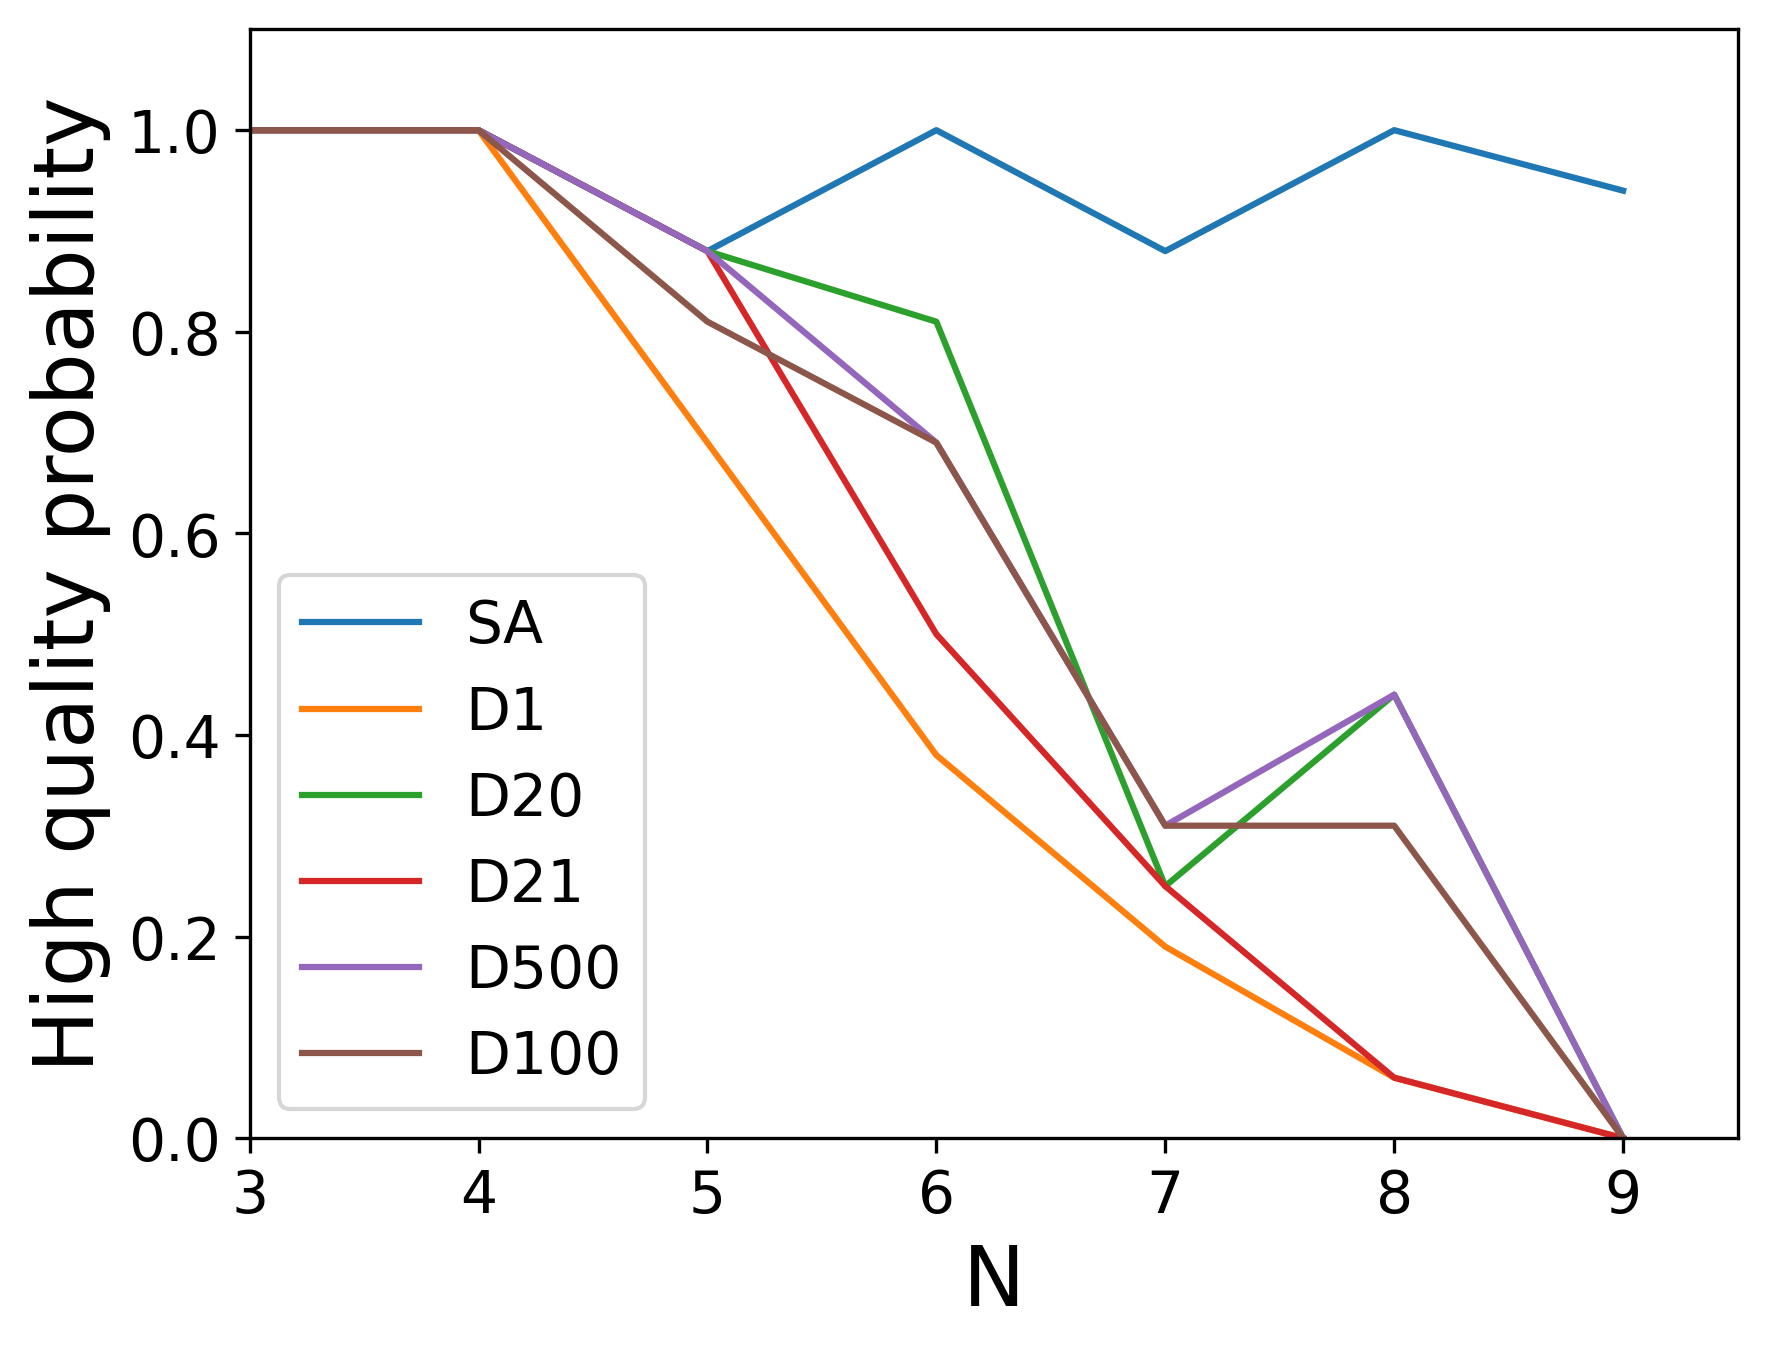
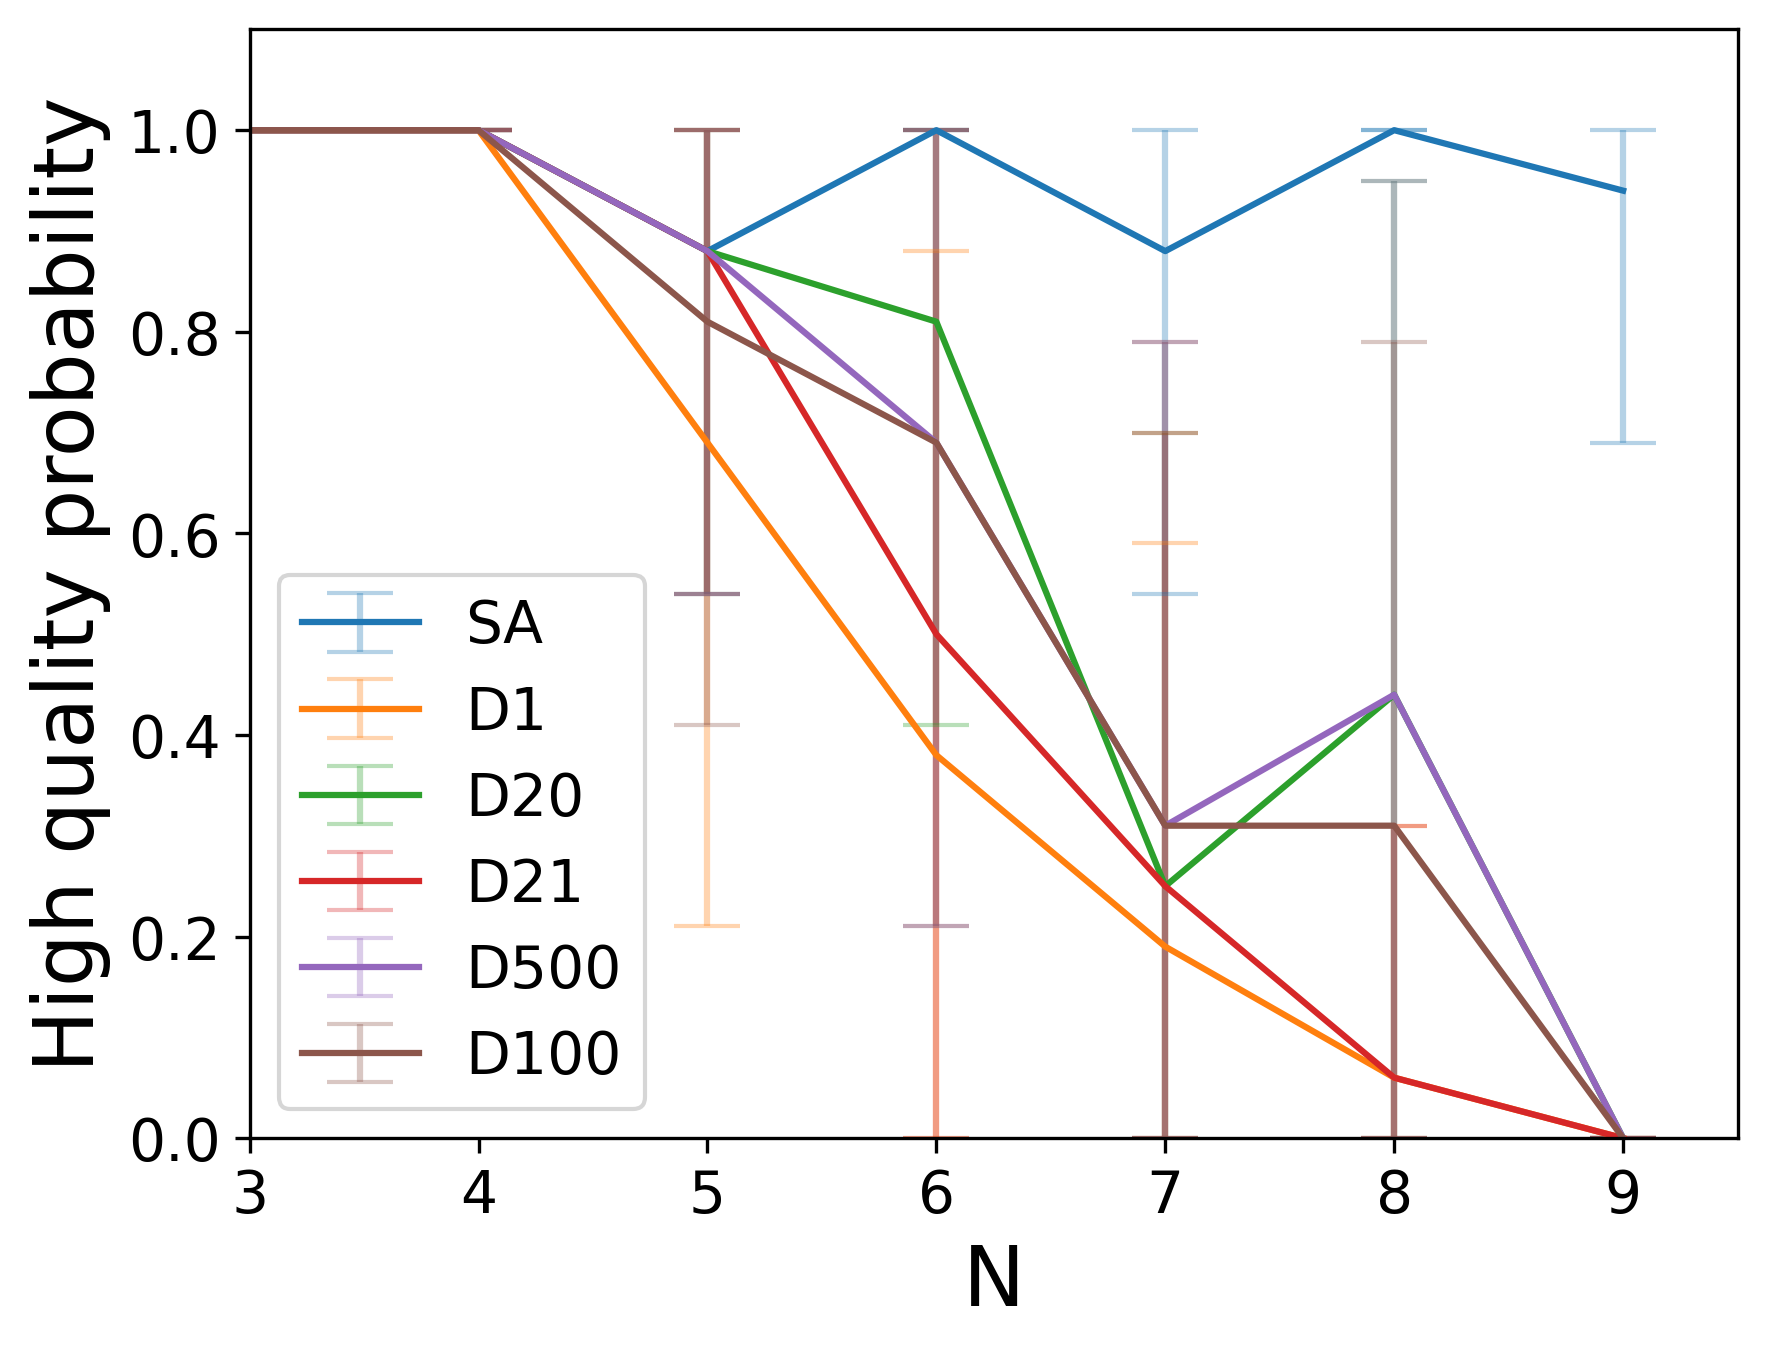
modified plots

diff --git a/relative_distance_new.py b/relative_distance_new.py
@@ -99,8 +99,8 @@ for i, df in enumerate(NEW_DF):
     NEW_DF[i]['normalized_cost'] = NEW_DF[i].apply(lambda row: normalize_cost(row.g1, row.g2, row.v, row.best_sample), axis=1)
     NEW_DF[i]['relative_distance'] = NEW_DF[i].apply(lambda row: rel_diff(row.exact_distance, row.normalized_cost), axis=1)
 
-for i, df in enumerate(OLD_DF+NEW_DF):
-    print(f"Length of {i}th DF: {len(df)}")
+#for i, df in enumerate(OLD_DF+NEW_DF):
+#    print(f"Length of {i}th DF: {len(df)}")
 
 relative_distance_df = pd.DataFrame()
 relative_distance_df['v'] = experiments_new_df['vertices']
@@ -112,31 +112,39 @@ NAMES_DF = ['SA',
             'leap', 'vqe p1', 'vqe p3', 'qaoa p1', 'qaoa p3']
 
 for i, (df, name) in enumerate(zip(ORDERED_DF, NAMES_DF)):
-    print('processing ', name)
+    # print('processing ', name)
     relative_distance_df[name] = df['relative_distance']
 
 relative_distance_df = relative_distance_df.fillna(1.0)
 
-print("\n\nRELATIVE DISTANCE")
-print(relative_distance_df.groupby(['v']).mean().round(decimals=2))
+#print("\n\nRELATIVE DISTANCE")
+#print(relative_distance_df.groupby(['v']).mean().round(decimals=2))
 
-print("\n\nSUCCESS PROBABILITY")
+#print("\n\nSUCCESS PROBABILITY")
 success_probability = (relative_distance_df < 0.001).astype(int)
 success_probability['v'] = relative_distance_df['v']
-print(success_probability.groupby(['v']).mean().round(decimals=2))
+#print(success_probability.groupby(['v']).mean().round(decimals=2))
 
-print("\n\nHIGH QUALITY PROBABILITY")
+#print("\n\nHIGH QUALITY PROBABILITY")
 hq_probability = (relative_distance_df <= 0.20).astype(int)
 hq_probability['v'] = relative_distance_df['v']
-print(hq_probability.groupby(['v']).mean().round(decimals=2))
+#print(hq_probability.groupby(['v']).mean().round(decimals=2))
 
 
 # ===========================================
 
-def create_plot(x, df, columns, labels, xlbl, ylbl, xlim=9.5):
-    plt.figure()
+def create_plot(x, df_mean, df_std, columns, labels, xlbl, ylbl, xlim=9.5):
+    fig = plt.figure()
     for i, (col, lbl) in enumerate(zip(columns, labels)):
-        plt.plot(x, df[col][:len(x)], label=lbl)
+        this_mean = df_mean[col][:len(x)]
+        this_std = df_std[col][:len(x)]
+        this_lower_error = [min(this_std.iloc[i], this_mean.iloc[i]) for i in range(len(this_mean))]
+        this_upper_error = [min(this_std.iloc[i], 1-this_mean.iloc[i]) for i in range(len(this_mean))]
+        this_error = [this_lower_error, this_upper_error]
+        markers, caps, bars = plt.errorbar(x, df_mean[col][:len(x)], yerr=this_error, label=lbl, capsize=8)
+        [bar.set_alpha(0.33) for bar in bars]
+        [cap.set_alpha(0.33) for cap in caps]
+
     plt.xlabel(xlbl, fontsize=20)
     plt.ylabel(ylbl, fontsize=20)
     plt.legend(fontsize=14)
@@ -144,60 +152,79 @@ def create_plot(x, df, columns, labels, xlbl, ylbl, xlim=9.5):
     plt.yticks(fontsize=14)
     plt.xlim((3, xlim))
     plt.ylim((0, 1.1))
+    return fig
 
 x = range(3, 10)
-rdg = relative_distance_df.groupby(['v']).mean().round(decimals=2)
-spg = success_probability.groupby(['v']).mean().round(decimals=2)
-hpg = hq_probability.groupby(['v']).mean().round(decimals=2)
+rdg_mean = relative_distance_df.groupby(['v']).mean().round(decimals=2)
+spg_mean = success_probability.groupby(['v']).mean().round(decimals=2)
+hpg_mean = hq_probability.groupby(['v']).mean().round(decimals=2)
+rdg_std = relative_distance_df.groupby(['v']).std().round(decimals=2)
+spg_std = success_probability.groupby(['v']).std().round(decimals=2)
+hpg_std = hq_probability.groupby(['v']).std().round(decimals=2)
+
+# Turn off interactive mode
+plt.ioff()
 
 # DWAVE plots configurations
-create_plot(x, rdg, ['SA', '2000 1us', '2000 20us', '2000 dc', '2000 lt', '2000 pm'],
+fig = create_plot(x, rdg_mean, rdg_std, ['SA', '2000 1us', '2000 20us', '2000 dc', '2000 lt', '2000 pm'],
             ['SA', 'D1', 'D20', 'D21', 'D500', 'D100'], "N", "Average relative difference")
 plt.savefig("plot_performances_new/2000_configurations_reldiff.png", dpi=300, bbox_inches='tight')
-create_plot(x, rdg, ['SA', 'adv 1us', 'adv 20us', 'adv dc', 'adv lt', 'adv pm'],
+plt.close(fig)
+fig = create_plot(x, rdg_mean, rdg_std, ['SA', 'adv 1us', 'adv 20us', 'adv dc', 'adv lt', 'adv pm'],
             ['SA', 'D1', 'D20', 'D21', 'D500', 'D100'], "N", "Average relative difference")
 plt.savefig("plot_performances_new/adv_configurations_reldiff.png", dpi=300, bbox_inches='tight')
+plt.close(fig)
 
-create_plot(x, spg, ['SA', '2000 1us', '2000 20us', '2000 dc', '2000 lt', '2000 pm'],
+fig = create_plot(x, spg_mean, spg_std, ['SA', '2000 1us', '2000 20us', '2000 dc', '2000 lt', '2000 pm'],
             ['SA', 'D1', 'D20', 'D21', 'D500', 'D100'], "N", "Success probability")
 plt.savefig("plot_performances_new/2000_configurations_sp.png", dpi=300, bbox_inches='tight')
-create_plot(x, spg, ['SA', 'adv 1us', 'adv 20us', 'adv dc', 'adv lt', 'adv pm'],
+plt.close(fig)
+fig = create_plot(x, spg_mean, spg_std, ['SA', 'adv 1us', 'adv 20us', 'adv dc', 'adv lt', 'adv pm'],
             ['SA', 'D1', 'D20', 'D21', 'D500', 'D100'], "N", "Success probability")
 plt.savefig("plot_performances_new/adv_configurations_sp.png", dpi=300, bbox_inches='tight')
+plt.close(fig)
 
-create_plot(x, hpg, ['SA', '2000 1us', '2000 20us', '2000 dc', '2000 lt', '2000 pm'],
+fig = create_plot(x, hpg_mean, hpg_std, ['SA', '2000 1us', '2000 20us', '2000 dc', '2000 lt', '2000 pm'],
             ['SA', 'D1', 'D20', 'D21', 'D500', 'D100'], "N", "High quality probability")
 plt.savefig("plot_performances_new/2000_configurations_hqp.png", dpi=300, bbox_inches='tight')
-create_plot(x, hpg, ['SA', 'adv 1us', 'adv 20us', 'adv dc', 'adv lt', 'adv pm'],
+plt.close(fig)
+fig = create_plot(x, hpg_mean, hpg_std, ['SA', 'adv 1us', 'adv 20us', 'adv dc', 'adv lt', 'adv pm'],
             ['SA', 'D1', 'D20', 'D21', 'D500', 'D100'], "N", "High quality probability")
 plt.savefig("plot_performances_new/adv_configurations_hqp.png", dpi=300, bbox_inches='tight')
+plt.close(fig)
 
 # DWAVE plots configurations
-create_plot(x, rdg, ['SA', '2000 20us', 'adv 20us', 'leap'],
+fig = create_plot(x, rdg_mean, rdg_std, ['SA', '2000 20us', 'adv 20us', 'leap'],
             ['SA', '2000', 'ADV', 'LEAP'], "N", "Average relative difference")
 plt.savefig("plot_performances_new/dwave_configurations_reldiff.png", dpi=300, bbox_inches='tight')
+plt.close(fig)
 
-create_plot(x, spg, ['SA', '2000 20us', 'adv 20us', 'leap'],
+fig = create_plot(x, spg_mean, spg_std, ['SA', '2000 20us', 'adv 20us', 'leap'],
             ['SA', '2000', 'ADV', 'LEAP'], "N", "Success probability")
 plt.savefig("plot_performances_new/dwave_configurations_sp.png", dpi=300, bbox_inches='tight')
+plt.close(fig)
 
-create_plot(x, hpg, ['SA', '2000 20us', 'adv 20us', 'leap'],
+fig = create_plot(x, hpg_mean, hpg_std, ['SA', '2000 20us', 'adv 20us', 'leap'],
             ['SA', '2000', 'ADV', 'LEAP'], "N", "High quality probability")
 plt.savefig("plot_performances_new/dwave_configurations_hqp.png", dpi=300, bbox_inches='tight')
+plt.close(fig)
 
 # variationals
 x = range(3, 6)
-create_plot(x, rdg, ['SA', 'vqe p1', 'vqe p3', 'qaoa p1', 'qaoa p3'],
+fig = create_plot(x, rdg_mean, rdg_std, ['SA', 'vqe p1', 'vqe p3', 'qaoa p1', 'qaoa p3'],
             ['SA', 'VQEp1', 'VQEp3', 'QAOAp1', 'QAOAp3'], "N", "Average relative difference")
 plt.savefig("plot_performances_new/variational_configurations_reldiff.png", dpi=300, bbox_inches='tight')
+plt.close(fig)
 
-create_plot(x, spg, ['SA', 'vqe p1', 'vqe p3', 'qaoa p1', 'qaoa p3'],
+fig = create_plot(x, spg_mean, spg_std, ['SA', 'vqe p1', 'vqe p3', 'qaoa p1', 'qaoa p3'],
             ['SA', 'VQEp1', 'VQEp3', 'QAOAp1', 'QAOAp3'], "N", "Success probability")
 plt.savefig("plot_performances_new/variational_configurations_sp.png", dpi=300, bbox_inches='tight')
+plt.close(fig)
 
-create_plot(x, hpg, ['SA', 'vqe p1', 'vqe p3', 'qaoa p1', 'qaoa p3'],
+fig = create_plot(x, hpg_mean, hpg_std, ['SA', 'vqe p1', 'vqe p3', 'qaoa p1', 'qaoa p3'],
             ['SA', 'VQEp1', 'VQEp3', 'QAOAp1', 'QAOAp3'], "N", "High quality probability")
 plt.savefig("plot_performances_new/variational_configurations_hqp.png", dpi=300, bbox_inches='tight')
+plt.close(fig)
 
 from qiskit.providers.aer.backends.backend_utils import (cpp_execute, available_methods, MAX_QUBITS_STATEVECTOR)
 from qiskit.providers.aer.backends.controller_wrappers import qasm_controller_execute
